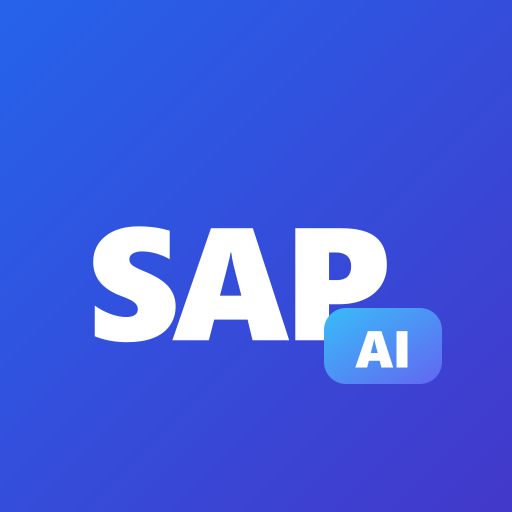
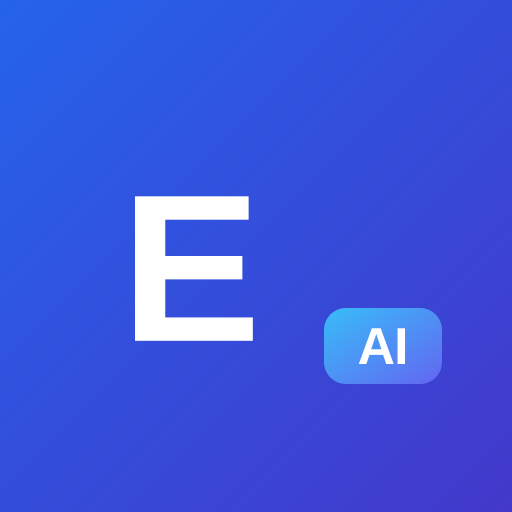
feat: Update branding from "SAP AI Assistant" to "Enterprise AI Assistant" across the application
- Modified index.html title and meta tags to reflect new branding.
- Updated SVG icons and images to replace "SAP" with "E" for consistency.
- Changed text in ChatInput and ChatLayout components to use new branding.
- Updated translation keys in i18n.js for the new application name.
- Adjusted Vite configuration to change the app name in the PWA manifest.

Changed region(s): [[0.1562, 0.375, 0.7812, 0.6875], [0.6875, 0.625, 0.8125, 0.7188]]

diff --git a/frontend/src/components/ChatLayout.jsx b/frontend/src/components/ChatLayout.jsx
@@ -1054,17 +1054,17 @@ const ChatLayout = () => {
       >
         <div className="p-3.5 sm:p-4 border-b border-line/70 flex items-center justify-between bg-surface-raised/50 backdrop-blur-md">
           <div className="flex items-center gap-3">
-            <div className="relative w-9 h-9 rounded-xl bg-gradient-to-br from-indigo-600 via-indigo-700 to-violet-800 flex items-center justify-center shadow-lg shadow-indigo-500/20 border border-white/20 shrink-0 overflow-hidden ring-1 ring-white/10">
-              <div className="flex items-center font-black text-xs text-white tracking-tight">
-                <span>SAP</span>
-              </div>
+            <div className="relative w-9 h-9 rounded-xl bg-gradient-to-br from-indigo-600 via-indigo-700 to-violet-800 flex items-center justify-start pl-2 shadow-lg shadow-indigo-500/20 border border-white/20 shrink-0 overflow-hidden ring-1 ring-white/10">
+              <span className="font-black text-[15px] text-white tracking-tight">
+                E
+              </span>
               <div className="absolute -bottom-0.5 -right-0.5 bg-gradient-to-r from-sky-400 to-indigo-500 rounded-tl-md px-1 py-0.2 shadow-xs">
                 <span className="text-[8px] font-black text-white leading-none tracking-tight">AI</span>
               </div>
             </div>
             <div>
               <h1 className="text-xs sm:text-sm font-extrabold tracking-tight font-display text-content flex items-center gap-1.5">
-                <span>SAP AI</span>
+                <span>Enterprise AI</span>
                 <span className="text-[9px] uppercase font-bold text-accent px-1.5 py-0.5 bg-accent-soft rounded-md tracking-wider border border-accent/20">Assistant</span>
               </h1>
               <div className="flex items-center gap-1.5 mt-0.5">
@@ -1088,17 +1088,12 @@ const ChatLayout = () => {
         <div className="p-3 space-y-2.5">
           <button
             onClick={createNewSession}
-            className="w-full flex items-center justify-between py-2.5 px-3.5 bg-gradient-to-r from-indigo-600 via-indigo-500 to-violet-600 hover:from-indigo-500 hover:to-violet-500 text-white rounded-xl text-xs font-bold shadow-md shadow-indigo-500/20 hover:shadow-indigo-500/35 border border-white/15 transition-all active:scale-[0.98] cursor-pointer group"
+            className="w-full flex items-center justify-center gap-2.5 py-2.5 px-3.5 bg-gradient-to-r from-indigo-600 via-indigo-500 to-violet-600 hover:from-indigo-500 hover:to-violet-500 text-white rounded-xl text-xs font-bold shadow-md shadow-indigo-500/20 hover:shadow-indigo-500/35 border border-white/15 transition-all active:scale-[0.98] cursor-pointer group"
           >
-            <span className="flex items-center gap-2.5">
-              <span className="p-1 rounded-lg bg-white/20 group-hover:bg-white/30 transition-colors shadow-2xs">
-                <Plus className="w-3.5 h-3.5" aria-hidden="true" />
-              </span>
-              <span className="tracking-wide">{t('sidebar.newChat')}</span>
+            <span className="p-1 rounded-lg bg-white/20 group-hover:bg-white/30 transition-colors shadow-2xs">
+              <Plus className="w-3.5 h-3.5" aria-hidden="true" />
             </span>
-            <kbd className="hidden sm:inline-flex items-center text-[10px] font-mono font-medium px-1.5 py-0.5 rounded-md bg-black/25 text-white/90 border border-white/20 tracking-wider">
-              Ctrl K
-            </kbd>
+            <span className="tracking-wide">{t('sidebar.newChat')}</span>
           </button>
 
           {!isGuest && (

diff --git a/frontend/src/lib/i18n.js b/frontend/src/lib/i18n.js
@@ -26,7 +26,7 @@ export const TRANSLATIONS = {
     'nav.settings': 'Open settings',
     'nav.theme': 'Switch theme',
     'nav.productionWarning': 'PRODUCTION',
-    'nav.appTitle': 'SAP AI Assistant',
+    'nav.appTitle': 'Enterprise AI Assistant',
     'nav.serverSelectAria': 'Select active SAP server',
 
     // Sidebar & Sessions
@@ -49,7 +49,7 @@ export const TRANSLATIONS = {
     'sidebar.loginPrompt': 'Sign In',
     'sidebar.logout': 'Sign Out',
     'sidebar.logoutConfirmTitle': 'Sign Out Confirmation',
-    'sidebar.logoutConfirmMsg': 'Are you sure you want to sign out from SAP AI Assistant?',
+    'sidebar.logoutConfirmMsg': 'Are you sure you want to sign out from Enterprise AI Assistant?',
     'sidebar.adminPanel': 'Admin Dashboard',
 
     // Suggestions on Empty Screen
@@ -206,7 +206,7 @@ export const TRANSLATIONS = {
     'security.tooShort': 'New password must be at least 4 characters.',
 
     // Login Modal
-    'login.title': 'SAP AI Assistant Login',
+    'login.title': 'Enterprise AI Assistant Login',
     'login.subtitle': 'Sign in to access Enterprise SAP services & knowledge base without prompt limits.',
     'login.guestLimitReached': 'Daily free prompt limit for guest has been reached. Please sign in to continue.',
     'login.sessionExpired': 'Your session has expired. Please sign in again.',
@@ -230,7 +230,7 @@ export const TRANSLATIONS = {
     'confirm.processing': 'Processing…',
 
     // PWA Prompt
-    'pwa.title': 'Install SAP AI Assistant',
+    'pwa.title': 'Install Enterprise AI Assistant',
     'pwa.subtitle': 'Instant native-like access on Mobile & Desktop',
     'pwa.iosHint': 'Tap the Share icon then select "Add to Home Screen".',
     'pwa.installNow': 'Install Now',
@@ -336,7 +336,7 @@ export const TRANSLATIONS = {
     'nav.settings': 'Buka pengaturan',
     'nav.theme': 'Ganti tema',
     'nav.productionWarning': 'PRODUKSI',
-    'nav.appTitle': 'Asisten SAP AI',
+    'nav.appTitle': 'Enterprise AI Assistant',
     'nav.serverSelectAria': 'Pilih server SAP aktif',
 
     // Sidebar & Sessions
@@ -359,7 +359,7 @@ export const TRANSLATIONS = {
     'sidebar.loginPrompt': 'Masuk Akun',
     'sidebar.logout': 'Keluar Akun',
     'sidebar.logoutConfirmTitle': 'Konfirmasi Keluar Akun',
-    'sidebar.logoutConfirmMsg': 'Apakah Anda yakin ingin keluar dari aplikasi Asisten SAP AI?',
+    'sidebar.logoutConfirmMsg': 'Apakah Anda yakin ingin keluar dari aplikasi Enterprise AI Assistant?',
     'sidebar.adminPanel': 'Dashboard Admin',
 
     // Suggestions on Empty Screen
@@ -516,7 +516,7 @@ export const TRANSLATIONS = {
     'security.tooShort': 'Password baru minimal 4 karakter.',
 
     // Login Modal
-    'login.title': 'Masuk SAP AI Assistant',
+    'login.title': 'Masuk Enterprise AI Assistant',
     'login.subtitle': 'Masuk untuk mengakses layanan Enterprise SAP & basis dokumen tanpa batas prompt.',
     'login.guestLimitReached': 'Batas prompt gratis per hari untuk tamu sudah tercapai. Silakan login untuk melanjutkan.',
     'login.sessionExpired': 'Sesi Anda telah berakhir. Silakan login kembali.',
@@ -540,7 +540,7 @@ export const TRANSLATIONS = {
     'confirm.processing': 'Memproses…',
 
     // PWA Prompt
-    'pwa.title': 'Pasang Aplikasi SAP AI',
+    'pwa.title': 'Pasang Aplikasi Enterprise AI',
     'pwa.subtitle': 'Akses instan seperti aplikasi asli di HP & Desktop',
     'pwa.iosHint': 'Ketuk ikon Bagikan (Share) lalu pilih "Tambah ke Layar Utama" (Add to Home Screen).',
     'pwa.installNow': 'Pasang Sekarang',

diff --git a/frontend/generate-icons.js b/frontend/generate-icons.js
@@ -35,18 +35,17 @@ function createSapAiSvg({ isMaskable = false, isAppleTouch = false } = {}) {
 
   <!-- Main Content centered within Safe Zone (circle radius ~200px) -->
   <g transform="translate(256, 256)">
-    <!-- SAP Main Text -->
+    <!-- E Main Text positioned on the left side -->
     <text
-      x="-18"
-      y="18"
+      x="-65"
+      y="12"
       fill="#FFFFFF"
       font-family="-apple-system, BlinkMacSystemFont, 'Segoe UI', Roboto, 'Helvetica Neue', Arial, sans-serif"
       font-weight="900"
-      font-size="160"
-      letter-spacing="-7"
+      font-size="210"
       text-anchor="middle"
       dominant-baseline="central"
-    >SAP</text>
+    >E</text>
 
     <!-- AI Badge in Bottom Right of Safe Area -->
     <g transform="translate(68, 52)">
@@ -102,18 +101,17 @@ function createSapAiSvg({ isMaskable = false, isAppleTouch = false } = {}) {
     <!-- Base Icon Background -->
     <rect width="512" height="512" rx="${rx}" fill="url(#bgGrad)"/>
 
-    <!-- Main "SAP" Typography -->
+    <!-- Main "E" Typography on the left side so it is not covered by the AI badge -->
     <text
-      x="234"
+      x="170"
       y="248"
       fill="#FFFFFF"
       font-family="-apple-system, BlinkMacSystemFont, 'Segoe UI', Roboto, 'Helvetica Neue', Arial, sans-serif"
       font-weight="900"
-      font-size="188"
-      letter-spacing="-8"
+      font-size="250"
       text-anchor="middle"
       dominant-baseline="central"
-    >SAP</text>
+    >E</text>
 
     <!-- Bottom-Right "AI" Badge -->
     <!-- Positioned at the bottom-right corner with rounded-top-left -->

diff --git a/frontend/index.html b/frontend/index.html
@@ -10,9 +10,9 @@
     <meta name="theme-color" content="#0F172A" />
     <meta name="apple-mobile-web-app-capable" content="yes" />
     <meta name="apple-mobile-web-app-status-bar-style" content="black-translucent" />
-    <meta name="apple-mobile-web-app-title" content="SAP AI" />
-    <meta name="application-name" content="SAP AI Assistant" />
-    <meta name="description" content="Enterprise AI Assistant untuk SAP ERP" />
+    <meta name="apple-mobile-web-app-title" content="Enterprise AI" />
+    <meta name="application-name" content="Enterprise AI Assistant" />
+    <meta name="description" content="Enterprise AI Assistant" />
     <link rel="preconnect" href="https://fonts.gstatic.com" crossorigin>
     <link href="https://fonts.googleapis.com/css2?family=Inter:wght@300;400;500;600;700;800&family=JetBrains+Mono:wght@400;500;600&family=Plus+Jakarta+Sans:wght@500;600;700;800&display=swap" rel="stylesheet">
     <script>
@@ -64,7 +64,7 @@
         } catch (e) {}
       })();
     </script>
-    <title>SAP AI Assistant</title>
+    <title>Enterprise AI Assistant</title>
   </head>
     <div id="root"></div>
     <script type="module" src="/src/main.jsx"></script>

diff --git a/frontend/src/components/ChatInput.jsx b/frontend/src/components/ChatInput.jsx
@@ -424,8 +424,8 @@ const ChatInput = ({
       {/* AI Disclaimer Footer */}
       <p className="composer-disclaimer text-center text-[9px] sm:text-[10px] text-content-subtle mt-1 mb-0 px-2 select-none leading-tight tracking-normal">
         {language === 'en'
-          ? 'SAP AI Assistant may make mistakes. Please verify important data in SAP GUI.'
-          : 'SAP AI Assistant dapat membuat kesalahan. Selalu verifikasi data penting di SAP GUI.'}
+          ? 'Enterprise AI Assistant may make mistakes. Please verify important data in SAP GUI.'
+          : 'Enterprise AI Assistant dapat membuat kesalahan. Selalu verifikasi data penting di SAP GUI.'}
       </p>
     </div>
   );

diff --git a/frontend/vite.config.js b/frontend/vite.config.js
@@ -28,9 +28,9 @@ export default defineConfig(({ mode }) => {
       registerType: 'autoUpdate',
       includeAssets: ['favicon.svg', 'apple-touch-icon.png', 'pwa-192x192.png', 'pwa-512x512.png'],
       manifest: {
-        name: 'SAP AI Assistant',
-        short_name: 'SAP AI',
-        description: 'Enterprise AI Assistant untuk SAP ERP',
+        name: 'Enterprise AI Assistant',
+        short_name: 'Enterprise AI',
+        description: 'Enterprise AI Assistant',
         theme_color: '#0F172A',
         background_color: '#0F172A',
         display: 'standalone',
